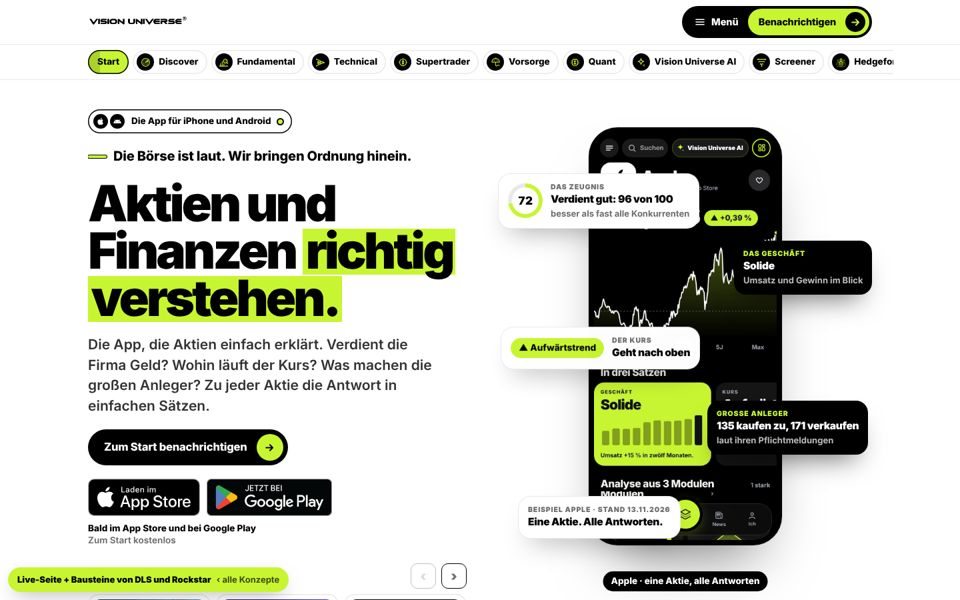
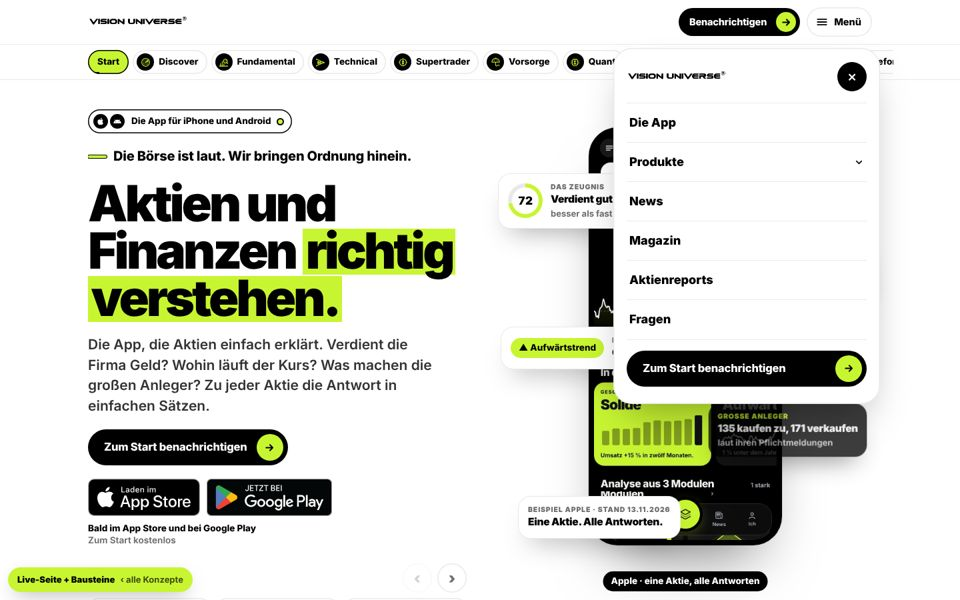
www (nur Vorschau): Bausteine nur mit vorhandenen Elementen und Farben
Menü: vorhandene Menü-Taste und vorhandenes weißes Menü als Karte, keine
schwarze Pille. Filme bleiben der Fächer, keine zusätzlichen Hover-Effekte;
Pfeile in der Form der vorhandenen Menü-Taste.

Claude-Session: https://claude.ai/code/session_01DVwZC7n9f15dtz6Bddomj7

diff --git a/landing/konzepte/t/bausteine.css b/landing/konzepte/t/bausteine.css
@@ -1,56 +1,37 @@
-/* Bausteine auf der unveränderten Live-Seite: Menü wie DLS, Bewegung wie DLS, Fortschritt wie Rockstar, Wisch-Reihen. */
+/* Bausteine auf der unveränderten Live-Seite. Nur vorhandene Elemente, Farben und Formen der Seite. */
 .kz-badge{position:fixed;left:12px;bottom:12px;z-index:90;display:inline-flex;gap:8px;align-items:center;padding:9px 14px;border-radius:99px;background:var(--lime);color:#000;font-weight:900;font-size:13px;box-shadow:0 10px 30px -10px rgba(0,0,0,.4)}
 .kz-badge span{font-weight:700;opacity:.7}
+@media(max-width:600px){.kz-badge{font-size:12px}.kz-badge span{display:none}}
 
-/* 1 Menü wie DLS */
+/* 1 Menü wie DLS: Menüleiste weg, rechts nur die vorhandene Menü-Taste und der vorhandene Knopf „Benachrichtigen“.
+   Das vorhandene weiße Menü klappt oben rechts als Karte auf. */
 .bx .nav .links,.bx .nav .appchip{display:none !important}
-.bx .nav .right{gap:0;padding:4px;border-radius:99px;background:#000}
-.bx .nav .right .btn{display:inline-flex !important;order:2;min-height:40px;padding:0 6px 0 16px;background:var(--lime);color:#000;font-size:14.5px;box-shadow:none}
-.bx .nav .right .btn .dot{width:30px;height:30px;background:#000;color:var(--lime)}
-.bx .nav [data-menu]{display:inline-flex !important;order:1;align-items:center;gap:8px;width:auto;height:40px;padding:0 14px;border:0;border-radius:99px;background:transparent;color:#fff;font-weight:800;font-size:14.5px;box-shadow:none}
-.bx .nav [data-menu] svg{width:18px;height:18px}
-.bx .sheet{background:transparent}
-.bx .sheet .in{left:auto;right:max(12px,calc((100vw - 1240px)/2 + 20px));top:74px;width:min(400px,calc(100vw - 24px));max-height:calc(100vh - 90px);border-radius:24px;background:#000;color:#fff;box-shadow:0 30px 60px -20px rgba(0,0,0,.55);transform-origin:top right;animation:bxin .3s var(--ease)}
-@keyframes bxin{from{opacity:0;transform:translateY(-8px) scale(.96)}to{opacity:1;transform:none}}
-.bx .sheet .hd .logo{filter:invert(1)}
-.bx .sheet .x{background:var(--lime);color:#000}
-.bx .sheet .mlist{border-top-color:#222}
-.bx .sheet .mlist>a,.bx .sheet .mlist summary{border-bottom-color:#222;color:#fff}
-.bx .sheet .msub a{color:#fff}.bx .sheet .msub small{color:#9a9a9a}
-.bx .sheet .mlist>a:hover,.bx .sheet .mlist summary:hover{color:var(--lime)}
+.bx .nav .right .btn{display:inline-flex !important}
+.bx .nav .menu{display:inline-flex !important;align-items:center;gap:8px;width:auto;padding:0 16px 0 13px;border-radius:99px;font-weight:800;font-size:14.5px}
+@media(min-width:960px){
+  .bx .sheet{background:transparent}
+  .bx .sheet .in{left:auto;right:max(12px,calc((100vw - 1240px)/2 + 20px));top:72px;width:400px;max-height:calc(100vh - 90px);border-radius:28px;box-shadow:0 30px 60px -20px rgba(0,0,0,.35),inset 0 0 0 1.5px var(--hair);transform-origin:top right;animation:bxin .3s var(--ease)}
+}
 @media(max-width:959px){.bx .nav .right .btn{display:none !important}}
+@keyframes bxin{from{opacity:0;transform:translateY(-8px) scale(.97)}to{opacity:1;transform:none}}
 
-/* 2 Bewegung wie DLS */
+/* 2 Bewegung wie DLS: Inhalte fahren beim Scrollen ein */
 .bx-in{opacity:0;transform:translateY(34px);transition:opacity .8s var(--ease) var(--d,0ms),transform .9s var(--ease) var(--d,0ms)}
 .bx-in.bx-on{opacity:1;transform:none}
 .bx-h1{clip-path:inset(0 0 100% 0);transform:translateY(24px);transition:clip-path 1.1s var(--ease),transform 1.1s var(--ease)}
 .bx-h1.bx-on{clip-path:inset(-20% -5% -20% -5%);transform:none}
-.bx .ntile,.bx .hlc,.bx .hlm,.bx .sbar{transition:transform .35s var(--ease),box-shadow .35s var(--ease)}
-.bx .ntile:hover,.bx .hlc:hover,.bx .hlm:hover{transform:translateY(-4px);box-shadow:inset 0 0 0 1.5px #000,0 18px 30px -18px rgba(0,0,0,.35)}
-.bx .ntile img,.bx .hlc img{transition:transform .6s var(--ease)}
-.bx .ntile{overflow:hidden}.bx .ntile:hover img,.bx .hlc:hover img{transform:scale(1.04)}
-.bx .btn{transition:transform .25s var(--ease)}.bx .btn:hover{transform:translateY(-2px)}
-.bx .btn .dot{transition:transform .3s var(--ease)}.bx .btn:hover .dot{transform:translateX(3px)}
 
-/* 3 Fortschritt wie Rockstar */
-.bx .jbar a{position:relative;overflow:hidden;isolation:isolate}
-.bx .jbar a .bx-bar{position:absolute;left:0;bottom:0;height:3px;width:calc(var(--p,0) * 100%);background:#000;border-radius:99px;z-index:-1;transition:width .15s linear}
-.bx .jbar a.cur{background:var(--lime)}
-.bx .jbar a.cur .bx-bar{height:100%;background:rgba(0,0,0,.14);border-radius:0}
+/* 3 Fortschritt wie Rockstar: der aktive (grüne) Punkt der Sprungleiste füllt sich mit einem schwarzen Balken */
+.bx .jbar a{position:relative;overflow:hidden}
+.bx .jbar a .bx-bar{position:absolute;left:0;bottom:0;height:3px;width:calc(var(--p,0) * 100%);background:#000;pointer-events:none}
 
-/* 4 Wisch-Reihen mit Pfeilen */
+/* 4 Wisch-Reihen mit Pfeilen (Pfeile in der Form der vorhandenen Menü-Taste) */
 .bx-rh{display:flex !important;align-items:center;justify-content:space-between;gap:12px}
 .bx-arr{display:inline-flex;gap:8px;flex:none}
-.bx-arr button{width:38px;height:38px;border-radius:10px;border:1.5px solid #000;background:#fff;font-size:20px;line-height:1;cursor:pointer;transition:background .2s,opacity .2s}
-.bx-arr button:hover:not(:disabled){background:var(--lime)}
-.bx-arr button:disabled{opacity:.25;cursor:default}
-.hh.bx-rh{align-items:flex-end}
+.bx-arr button{display:inline-grid;place-items:center;width:44px;height:44px;border-radius:50%;border:0;background:#fff;box-shadow:inset 0 0 0 1.5px var(--hair);font-size:22px;line-height:1;cursor:pointer}
+.bx-arr button:hover:not(:disabled){box-shadow:inset 0 0 0 1.5px #000}
+.bx-arr button:disabled{opacity:.3;cursor:default}
 .ntiles.bx-row{display:grid !important;grid-template-columns:none !important;grid-auto-flow:column;grid-auto-columns:minmax(240px,calc((100% - 42px)/4));overflow-x:auto;scroll-snap-type:x mandatory;scrollbar-width:none;padding-bottom:6px}
-.ntiles.bx-row::-webkit-scrollbar,.bx-films::-webkit-scrollbar{display:none}
+.ntiles.bx-row::-webkit-scrollbar{display:none}
 .ntiles.bx-row .ntile{scroll-snap-align:start}
 @media(max-width:700px){.ntiles.bx-row{grid-auto-columns:78%}.bx-arr{display:none}}
-.bx-films{height:auto !important;display:flex !important;gap:14px;overflow-x:auto;scroll-snap-type:x mandatory;scrollbar-width:none;padding:10px 2px 20px}
-.bx-films button,.bx-films:hover button,.bx-films button:hover{position:relative !important;left:0 !important;margin:0 !important;flex:none;width:190px;transform:none !important;scroll-snap-align:start}
-.bx-films button:hover{box-shadow:0 0 0 3px var(--lime),0 30px 50px -28px rgba(0,0,0,.6)}
-.bx-films{background:none !important;box-shadow:none !important}
-@media(max-width:600px){.kz-badge{font-size:12px}.kz-badge span{display:none}}

diff --git a/landing/konzepte/index.html b/landing/konzepte/index.html
@@ -7,9 +7,9 @@
 <p class="kp-lead">Alle Varianten sind www.visionuniverse.de, wie sie heute live ist: dieselben Texte, Bilder, Farben, Kapitel und Filme. Geändert ist nur die Technik – wie man sich durch die Seite bewegt. Überall gleich: das Menü wie bei DLS, eine kleine schwarze Pille „Menü | Benachrichtigen“ oben rechts, die eine schwarze Karte aufklappt.</p>
 <h2 class="kp-h">Neu: die Live-Seite mit Bausteinen von DLS und Rockstar</h2>
 <div class="kp-grid kp-two">
-<a class="kp-card" href="./x/"><span class="kp-shot"><img src="./t/x.jpg" alt=""></span><span class="kp-t"><small>Empfehlung · Seite unverändert</small><b>Live-Seite + Bausteine</b><em>Die Seite genau wie heute, mit Aufbau, Reihenfolge, Kapiteln und mitlaufendem iPhone. Neu sind nur vier Bausteine: das Menü wie bei DLS (Pille, schwarze Karte), die Bewegung wie bei DLS (Inhalte fahren beim Scrollen ein), der Fortschritt wie bei Rockstar (das aktive Kapitel in der Leiste füllt sich beim Scrollen) und Wisch-Reihen mit Pfeilen für „Heute neu“, die News und die Filme.</em></span></a>
+<a class="kp-card" href="./x/"><span class="kp-shot"><img src="./t/x.jpg" alt=""></span><span class="kp-t"><small>Empfehlung · Seite unverändert</small><b>Live-Seite + Bausteine</b><em>Die Seite genau wie heute: gleiche Elemente, gleiches Design, keine neuen Farben, Bilder oder Filme. Neu ist nur, wie sich vier Dinge verhalten: Das Menü steht als vorhandene Menü-Taste neben „Benachrichtigen“ und klappt das vorhandene Menü als Karte oben rechts auf (wie bei DLS). Inhalte fahren beim Scrollen ein (wie bei DLS). Das aktive Kapitel in der Sprungleiste füllt sich beim Scrollen (wie bei Rockstar). „Heute neu“ und die News sind Reihen mit Pfeilen.</em></span></a>
 </div>
-<h2 class="kp-h">Umbauten mit der Technik von DLS und Rockstar Games</h2>
+<h2 class="kp-h">Frühere Entwürfe (mit neuen Elementen, nicht die Richtung)</h2>
 <p class="kp-lead">Texte, Bilder und Farben sind dieselben wie live. Übernommen ist die Technik der beiden Vorbilder.</p>
 <div class="kp-grid kp-two">
 <a class="kp-card" href="./d/"><span class="kp-shot"><img src="./t/d.jpg" alt=""></span><span class="kp-t"><small>Wie dls-consulting.de</small><b>Technik wie DLS</b><em>Menü als Pille oben rechts. Riesige Überschrift mit eingebetteten App-Bildern, daneben eine laufende Liste der Bereiche. Darunter ein großer Film-Block, dann eine schwarze Bühne mit Reihen zum Wischen: Die App, die zehn Filme, die News. Jede Karte öffnet ihr Kapitel als Ebene, mit Pfeilen zum nächsten.</em></span></a>

diff --git a/landing/konzepte/t/bausteine.js b/landing/konzepte/t/bausteine.js
@@ -7,7 +7,7 @@
   var reduce = window.matchMedia("(prefers-reduced-motion: reduce)").matches;
   function $$(s, c) { return [].slice.call((c || document).querySelectorAll(s)); }
 
-  /* 1 Menü wie DLS: die vorhandene Menü-Taste bekommt „Menü“, das Menü klappt als schwarze Karte auf */
+  /* 1 Menü wie DLS: die vorhandene Menü-Taste bekommt „Menü“, das vorhandene Menü klappt als Karte auf */
   var mb = document.querySelector(".nav [data-menu]");
   if (mb) mb.insertAdjacentHTML("beforeend", '<span class="bx-mt">Menü</span>');
 
@@ -40,7 +40,7 @@
     tick();
   }
 
-  /* 4 Wisch-Reihen: News und „Heute neu“ werden Reihen mit Pfeilen wie bei DLS */
+  /* 4 Wisch-Reihen: News und „Heute neu“ werden Reihen mit Pfeilen wie bei DLS (Filme bleiben der Fächer) */
   function arrows(track, host) {
     var w = document.createElement("span"); w.className = "bx-arr";
     w.innerHTML = '<button type="button" aria-label="Zurück">‹</button><button type="button" aria-label="Weiter">›</button>';
@@ -55,6 +55,4 @@
   if (nt) { nt.classList.add("bx-row"); if (st) { st.classList.add("bx-rh"); arrows(nt, st); } }
   var hl = document.querySelector(".hlnews"), hk = document.querySelector(".hl > .kap");
   if (hl && hk) { hk.classList.add("bx-rh"); arrows(hl, hk); }
-  var fan = document.querySelector("#filme .fan"), fh = document.querySelector("#filme .hh");
-  if (fan && fh) { fan.classList.add("bx-row", "bx-films"); fh.classList.add("bx-rh"); arrows(fan, fh); }
 })();
